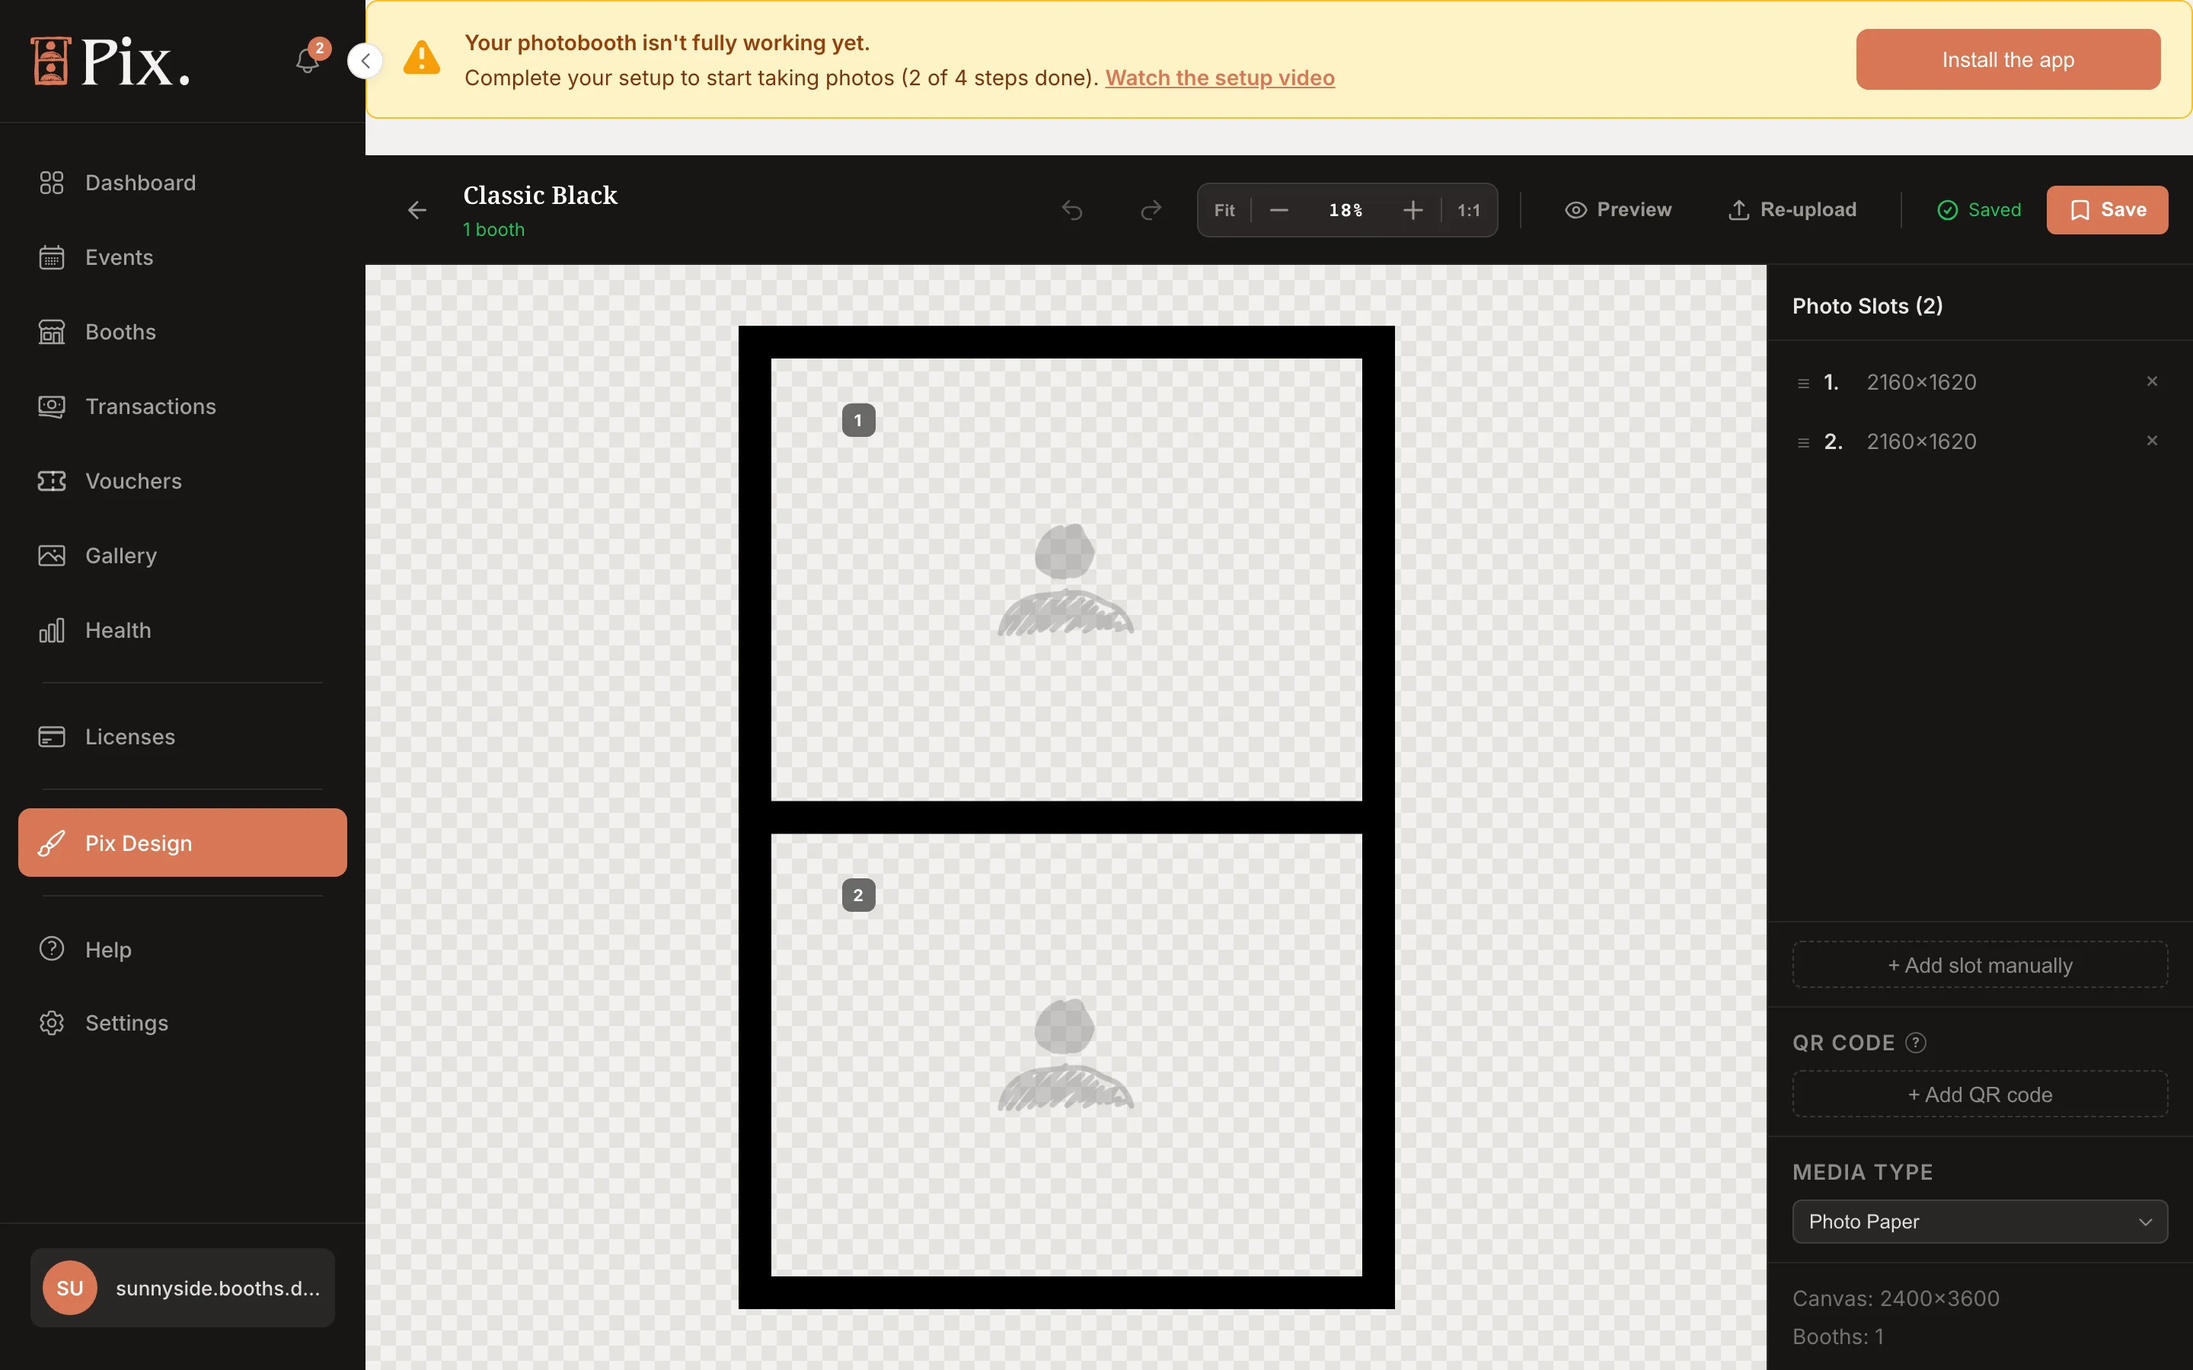
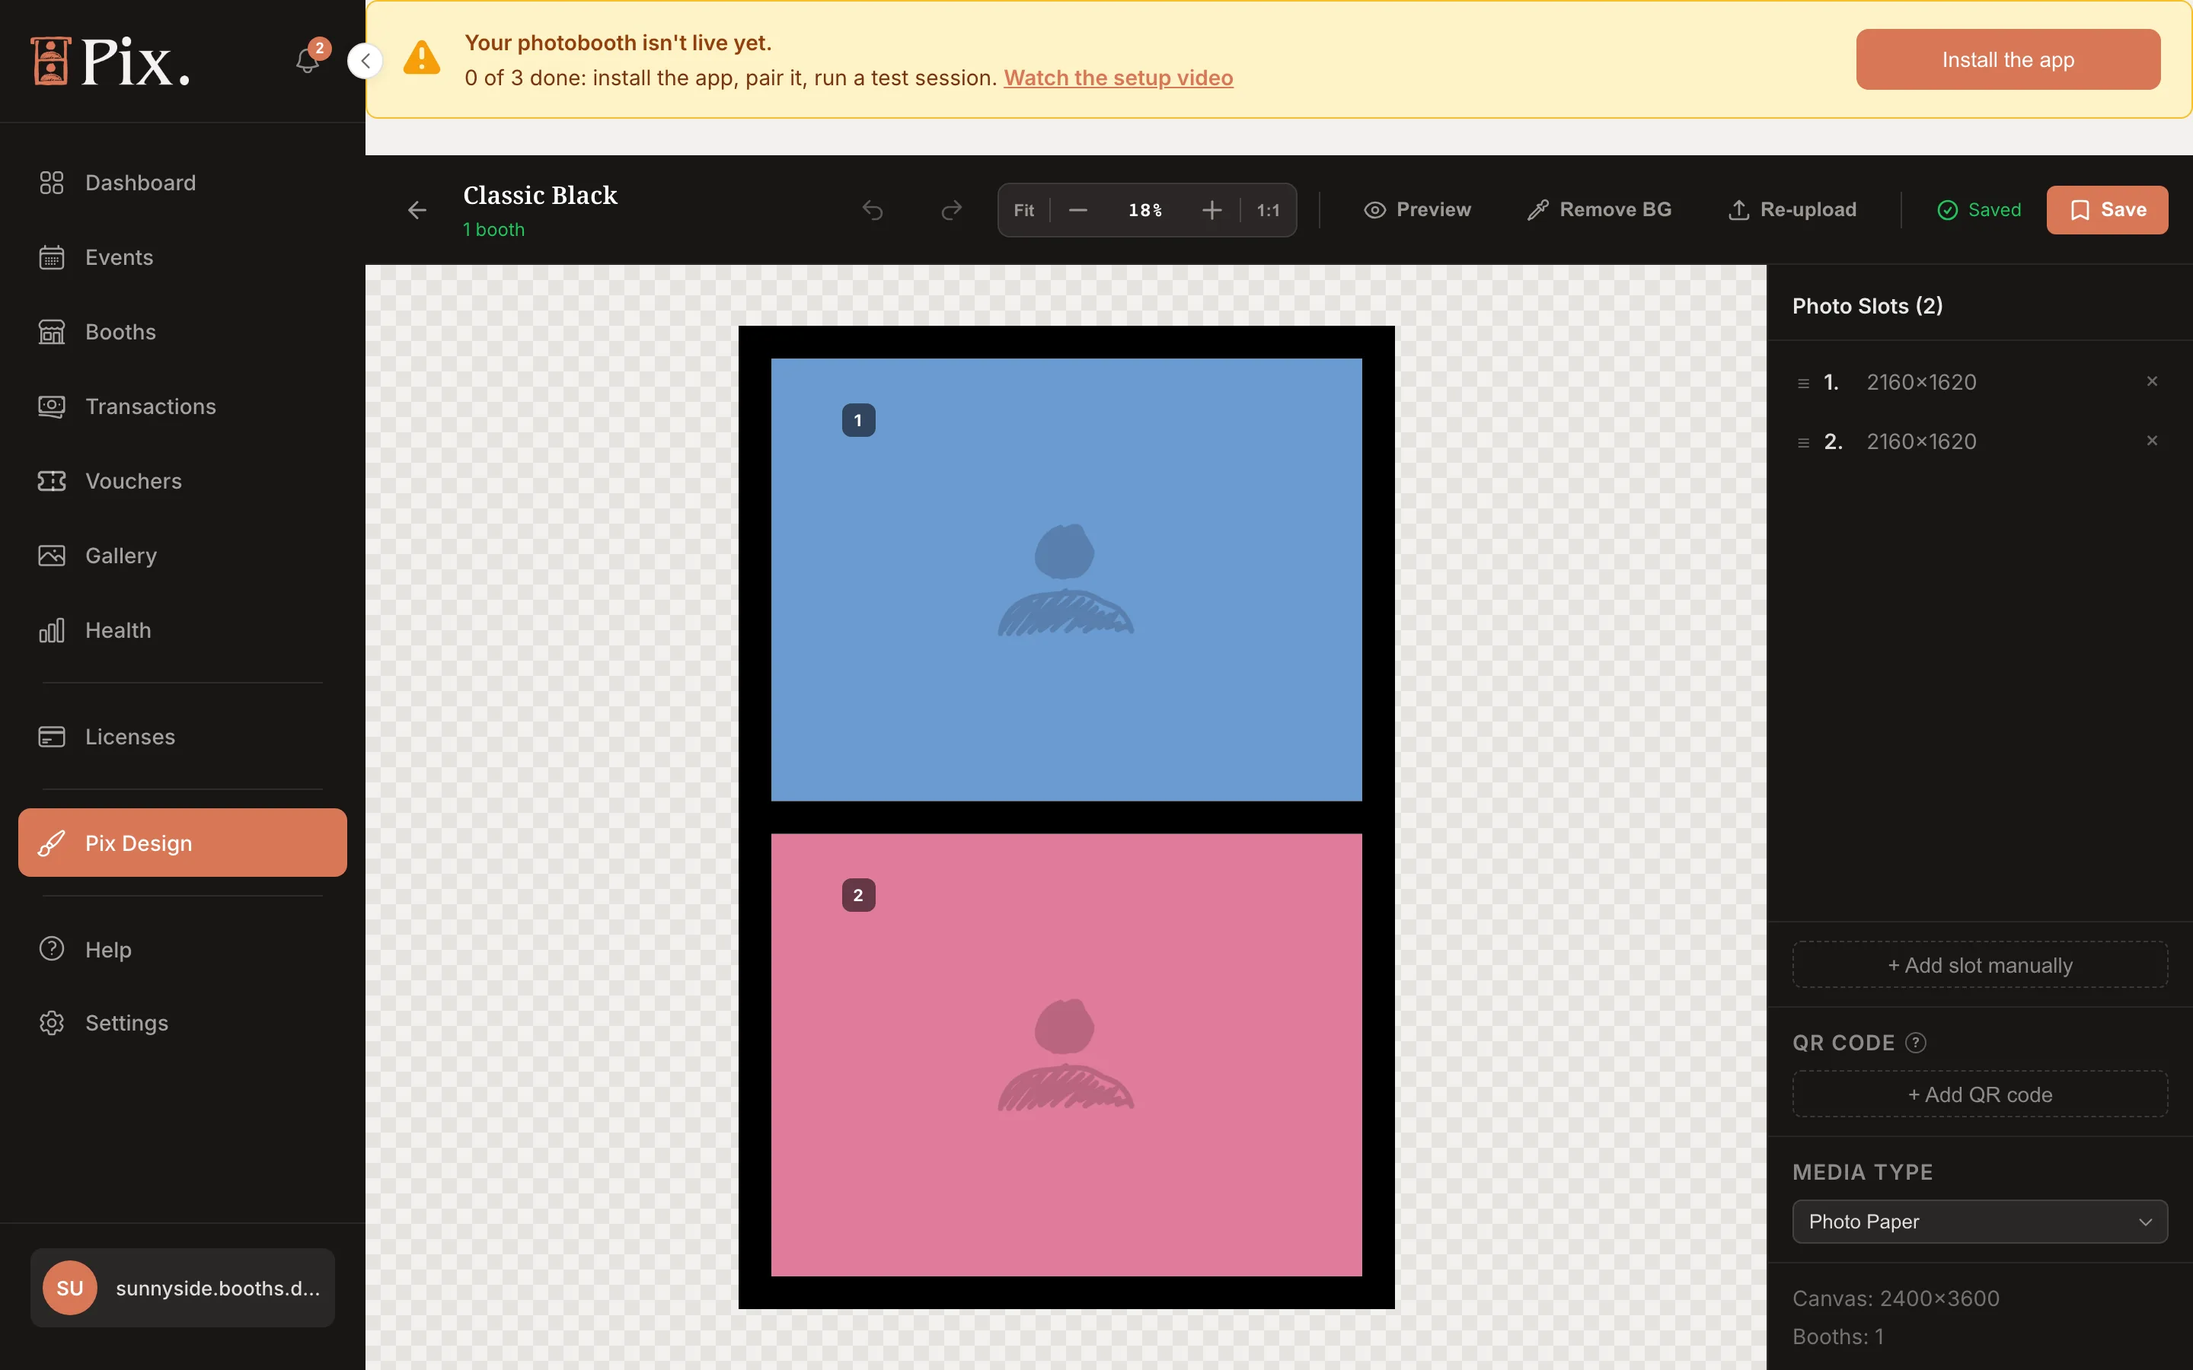
docs: template editor Remove BG, cut-out slots, slot layers, multi-select; Booth filter and Manage templates on the list
- Template Editor page: Remove background tool (picked colours, tolerance,
  connected area, expand, smooth edge), Cut out artwork, Copy of, slot layers,
  selecting and moving slots with snapping, shortcut table, JPG uploads,
  white canvas and artwork loading/Retry
- Templates list: Booth filter, in-page Manage templates window, Delete with
  Unassign & delete
- Tutorial Step 1/3/5 and Assigning Templates / filters pages updated
- Six new or recaptured screenshots from main a6f8c761

diff --git a/docs/dashboard/pix-design/creating-templates.md b/docs/dashboard/pix-design/creating-templates.md
@@ -21,9 +21,10 @@ A print template is the layout a guest's photos land in: the 4x6" print, the 2x6
 ![Template Projects list with folders, filters, the two ready-made templates with booth counts, Manage Template and, on Pix Starter, Upgrade to Create](/img/docs/pix-design-templates.webp)
 
 - The folder column on the left starts with **All Projects**; **New Folder** adds your own. See [Folders and Categories](./folders-and-collections.md).
-- The **Category**, **Paper Size** and **Media Type** filters and the search box narrow the grid.
+- The **Category**, **Paper Size**, **Media Type** and **Booth** filters and the search box narrow the grid. **Booth** shows only the templates assigned to one booth, and adds a **Manage templates** button for that booth; see [Assigning Templates](./assigning-templates.md).
 - Each card carries a booth count badge, such as "20 booths", so you can see where a design is in use. The card menu offers **Rename**, **Assign to booths** and **Delete**.
-- **Manage Template** lists your booths and jumps to a booth's Templates tab.
+- **Delete** asks you to type DELETE. If booths still use the template, a second step lists them ("In use on ...") and offers **Unassign & delete**, which removes it from those booths and deletes it in one go.
+- **Manage Template** picks a booth and opens that booth's template list in a window on this page.
 - **New Project** starts a template. On Pix Starter the header reads **2 / 2** and the button reads **Upgrade to Create**, as in the screenshot above; the two ready-made templates, Classic Black and Classic White, come with every account.
 
 ## Preparing the PNG
@@ -41,8 +42,10 @@ Pixture prints at 600 DPI, so the PNG should match the print size in pixels:
 Three rules make a PNG work as a template:
 
 1. **Transparent areas become photo slots.** Cut a fully transparent window wherever a photo should appear. One window is one slot, and the booth takes one photo per slot, in slot order.
-2. **Keep everything else opaque.** Frames, logos and text print over the photos.
+2. **Keep everything else opaque.** Frames, logos and text print over the photos. Transparent areas outside the photo slots print white.
 3. **Match the size.** A file at another size is auto-resized to fit the chosen print size, so keep the same aspect ratio to avoid stretching.
+
+No transparency in your design? A JPG, or a PNG with solid white boxes where the photos go, still works: upload it and use **Remove BG** in the editor to turn those boxes transparent, or draw slots over the artwork and let **Cut out artwork** clear them. Both are described under [The Editor](#the-editor).
 
 ## Creating a Template Project
 
@@ -58,19 +61,65 @@ Three rules make a PNG work as a template:
    - **Triple Strip** (3-strip media): a sheet that becomes three strips.
    - **Sticker** (Adhesive media): sticker paper.
    - **Custom** (**Set name**): any other stock, named by you.
-4. Drop your PNG on the **Template PNG** zone or click it to browse.
+4. Drop your PNG or JPG on the **Template PNG** zone or click it to browse. A JPG is stored as PNG.
 5. Click **Create Project**. The button enables once a size and a file are chosen.
 
 ## The Editor
 
 The project opens in the editor. If no PNG is loaded yet, the canvas reads "Drop PNG here or click to browse. Target: 2400 × 3600 px (4×6 at 600 DPI), images will be auto-resized to fit." The target follows the print size you chose.
 
-![Template editor before a PNG is uploaded showing the drop zone and the 2400 x 3600 px target](/img/docs/pix-design-template-editor.webp)
+![Template editor with the Classic Black template: two photo slots, the toolbar with Preview, Remove BG, Re-upload and Save, and the Photo Slots panel](/img/docs/pix-design-template-editor.webp)
 
-- The toolbar has **Undo**, **Redo**, zoom, **Preview** (the layout with sample photos), **Re-upload** (swap the PNG and keep the project) and **Save**.
+- The toolbar has **Undo**, **Redo**, zoom, **Preview** (the layout with sample photos), **Remove BG**, **Re-upload** (swap the artwork and keep the project) and **Save**.
 - The side panel lists **Photo Slots (n)**, detected from the transparent areas. Use **Add slot manually** for a slot the detection missed, or for a slot over an opaque area.
 - **Add QR code** places a QR block on the print. The booth fills it with the guest's share link, so a printed strip leads back to the digital copies.
 - **Media Type** can be changed here as well.
+- The canvas shows white under the artwork, because the booth prints on white. If the artwork takes a while to arrive, a **Loading artwork...** bar shows the progress; if it stalls, click **Retry**.
+
+### Remove Background
+
+**Remove BG** makes a colour in your artwork transparent, so the photos show through it. Use it on a JPG, or on a PNG exported with white or coloured boxes where the photos go.
+
+![Template editor with Remove BG on: the Remove background panel with Tolerance, Smooth edge, Expand, Connected area only and a picked colour](/img/docs/pix-design-template-remove-bg.webp)
+
+1. Click **Remove BG**. The cursor becomes an eyedropper.
+2. Click the colour to remove. The area it selects is hatched with a moving outline, and the colour appears under **Picked colours** with its hex code and how much of the artwork is selected.
+3. Hold **Shift** and click to add another colour, or **Alt** (Option on a Mac) and click to take an area out. The **x** on a picked colour drops just that pick.
+4. Adjust the selection if needed:
+   - **Tolerance** (1 to 60, default 10) sets how close a colour must be to the one you clicked.
+   - **Connected area only** keeps the selection to the area around your click; untick it to take the same colour everywhere on the artwork.
+   - **Expand** grows or shrinks the selection by a few pixels.
+   - **Smooth edge** softens the cut by 0 to 3 px, so no hard white fringe is left around the photo.
+5. Click **Remove** (or press Enter). The editor makes the area transparent, saves the new artwork and adds a photo slot for each new transparent area. **Clear** starts the selection over, **Done** closes the tool.
+
+One **Undo** reverts a removal together with the slots it added. Running **Remove BG** again never adds a second slot over an area your slots already cover.
+
+### Photo Slot Options
+
+Select one slot to see its extra rows in the side panel:
+
+- **Cut out artwork** appears when a slot sits over part of your design. With it ticked, the editor clears that rectangle from the artwork when you save, so the photo shows. A slot you draw over artwork is ticked by default.
+- **Copy of** makes the slot repeat another slot's photo, so the guest takes fewer photos than the template has slots, for example a strip with the same photo printed twice.
+- **Layer** buttons appear when slots overlap: **Send to back**, **Send backward**, **Bring forward** and **Bring to front**, with a "Layer 2/3" readout. Slot numbers, and so the order photos are taken in, never change.
+
+### Selecting and Moving Slots
+
+![Template editor with both photo slots selected in one box with eight handles](/img/docs/pix-design-template-multiselect.webp)
+
+- Drag on an empty part of the canvas to draw a selection box; every slot it touches is selected. **Shift** or **Cmd/Ctrl**-click a slot, on the canvas or in the side panel, to add or remove it.
+- A group gets one box with eight handles. Drag any slot to move the group, drag a handle to resize it, and hold **Shift** on a corner to scale it evenly.
+- While you drag or resize, slots snap to the canvas edges and centre, to other slots and to the QR code. Hold **Alt** (Option) to place freely.
+
+| Shortcut (Mac / Windows) | Does |
+|---|---|
+| Cmd+A / Ctrl+A | Select all slots |
+| Cmd+C, Cmd+V / Ctrl+C, Ctrl+V | Copy and paste the selection |
+| Cmd+D / Ctrl+D | Duplicate the selection |
+| Arrow keys | Nudge 1 px (Shift: 10 px) |
+| Delete or Backspace | Delete the selected slots |
+| Cmd+[ and Cmd+] / Ctrl+[ and Ctrl+] | Send backward, bring forward (add Shift for back and front) |
+| Cmd+Z, Cmd+Shift+Z / Ctrl+Z, Ctrl+Shift+Z | Undo, redo |
+| Esc | Clear the selection |
 
 On the first **Save** the editor asks you to **Name Your Template** and offers **Assign to booths** right away. You can also assign later; see [Assigning Templates](./assigning-templates.md).
 

diff --git a/docs/tutorials/design-a-print-template.md b/docs/tutorials/design-a-print-template.md
@@ -29,7 +29,7 @@ Print sizes are at 600 DPI:
 
 A4, A3 and a **Custom** size (you set the pixels) are also available. The editor names the target size for the project and resizes any image to fit, so an off-size export still works, but design at the exact size for the sharpest print.
 
-![Template editor drop zone reading Drop PNG here or click to browse, target 2400 x 3600 px at 600 DPI](/img/docs/pix-design-template-editor.webp)
+![Template editor with the Classic Black template: two photo slots, the toolbar with Preview, Remove BG, Re-upload and Save, and the Photo Slots panel](/img/docs/pix-design-template-editor.webp)
 
 ## Step 1: Prepare the PNG
 
@@ -37,6 +37,8 @@ A4, A3 and a **Custom** size (you set the pixels) are also available. The editor
 2. Draw your frame, logo, text and decorations. Leave the areas where photos go fully transparent: not white, not partly transparent.
 3. Keep everything else opaque, so no photo shows through by accident.
 4. Export as PNG-24 with an alpha channel, under 15 MB.
+
+Your design tool cannot export transparency, or you only have a JPG? Export it with solid white boxes where the photos go, and remove them in Step 3 with **Remove BG**.
 
 :::tip Slots need clean edges
 The editor turns every transparent region into one slot, so give each slot a single clear shape with a hard edge at full transparency. Soft or partly transparent edges make the slot boundary unclear.
@@ -71,10 +73,17 @@ The editor turns every transparent region into one slot, so give each slot a sin
 
 The editor opens with your PNG on the canvas. The side panel lists **Photo Slots (n)**, one for each transparent area it found.
 
-1. Check that the count matches your design. If a slot is missing, click **Add slot manually** and draw it.
-2. To put a QR code on the print, click **Add QR code** and place it.
-3. Click **Preview** to check the result.
-4. If the PNG needs a change, fix it in your design tool and click **Re-upload**; the slots are detected again.
+1. Check that the count matches your design. If a slot is missing, click **Add slot manually** and draw it. A slot drawn over your artwork has **Cut out artwork** ticked, so that rectangle is cleared from the design when you save.
+2. No slots at all because the photo boxes are white? Click **Remove BG**, click inside one box, **Shift**-click the others, and click **Remove**. The boxes turn transparent and each one becomes a slot.
+
+   ![Remove background panel with Tolerance, Smooth edge, Expand, Connected area only and a picked colour](/img/docs/pix-design-template-remove-bg.webp)
+
+3. To line slots up, drag a box around them (or press Cmd+A / Ctrl+A) and move or resize them together; they snap to the canvas centre and to each other.
+4. To put a QR code on the print, click **Add QR code** and place it.
+5. Click **Preview** to check the result.
+6. If the design needs a change, fix it in your design tool and click **Re-upload**; the slots are detected again.
+
+Every tool in the editor is described in [Template Editor](../dashboard/pix-design/creating-templates.md#the-editor).
 
 ## Step 4: Save and name the template
 
@@ -86,8 +95,8 @@ The editor opens with your PNG on the canvas. The side panel lists **Photo Slots
 
 - On **Template Projects**, each card's menu has **Rename**, **Assign to booths** and **Delete**. **Assign to booths** opens the booth list with an **All booths** option and **Apply**.
 - **New Folder** in the folder sidebar groups templates by client, season or size. Tick cards with **Select All** and use **Move to** to file them.
-- Filter the list by **Category**, **Paper Size** and **Media Type**.
-- **Manage Template** shows which booths use a template and jumps to that booth's Templates tab.
+- Filter the list by **Category**, **Paper Size**, **Media Type** and **Booth**. With a booth picked, **Manage templates** opens that booth's templates in a window on the same page.
+- **Delete** on a template that booths still use lists those booths and offers **Unassign & delete**.
 
 The booth's own **Templates > Manage Templates** modal works the other way round: pick templates for one booth. See [Assigning Templates to Booths](../dashboard/pix-design/assigning-templates.md).
 

diff --git a/docs/dashboard/pix-design/folders-and-collections.md b/docs/dashboard/pix-design/folders-and-collections.md
@@ -48,18 +48,19 @@ Use a small, stable set of category names. Two spellings of the same word ("Wedd
 
 ## Paper Size and Media Type Filters
 
-Two more filters sit next to Category on the list:
+Three more filters sit next to Category on the list:
 
 | Filter | What it matches |
 |---|---|
 | **Paper Size** | The print size chosen when the project was created: 2x6", 4x6", 6x8", A4, A3 or a custom size |
 | **Media Type** | Normal, 2" Cut, Perforated, Triple Strip, Sticker or a custom media name |
+| **Booth** | The templates assigned to one booth, counted the same way as the card's booth badge. Picking a booth also shows **Manage templates** for it |
 
 They are most useful before assigning: a booth loaded with 4x6" photo paper should only get 4x6" Normal templates, and a strip printer should only get 2" Cut or Triple Strip designs. The same **All Sizes** and **All Media** filters appear in the booth's **Manage Templates** modal. See [Assigning Templates](./assigning-templates.md).
 
 ## Search
 
-The search box on the list finds projects across every folder. With a large library this is faster than browsing folders, and it combines with the three filters.
+The search box on the list finds projects across every folder. With a large library this is faster than browsing folders, and it combines with the other filters. **Clear filters** resets them all.
 
 :::tip
 Filter first, then **Select All**, then **Move to**. Filtering by Paper Size and selecting everything is the quickest way to sort an imported batch of PNGs into folders.

diff --git a/docs/dashboard/pix-design/assigning-templates.md b/docs/dashboard/pix-design/assigning-templates.md
@@ -22,13 +22,19 @@ Best when one design should go to many booths.
 
 The same modal appears on the first save of a new template, right after **Name Your Template**.
 
-### From Manage Template
+### From the Booth filter
 
-Best when you are already in the list and want to work booth by booth.
+Best when you are already in the list and want to work booth by booth, without leaving the page.
 
-1. Click **Manage Template** in the Template Projects header.
-2. Pick a booth. The dashboard jumps to that booth's **Templates** tab.
-3. Continue with **Manage Templates**, below.
+1. On **Template Projects**, open the **Booth** filter and pick a booth. The grid shows only that booth's templates. (**Manage Template** in the header does the same.)
+
+   ![Template Projects list with the Booth filter open, listing All booths and each booth](/img/docs/pix-design-templates-booth-filter.webp)
+
+2. Click **Manage templates**. A window titled with the booth's name opens, with a search box, an **All** / **Assigned** switch and every template as a card.
+
+   ![Manage templates window for one booth with the search box, All and Assigned switch, 2 assigned and Save](/img/docs/pix-design-templates-manage-booth.webp)
+
+3. Tick or untick templates, then click **Save**. The booth count badges on the list update straight away. **Clear all** unticks every template.
 
 ### From the booth's Templates tab
 
